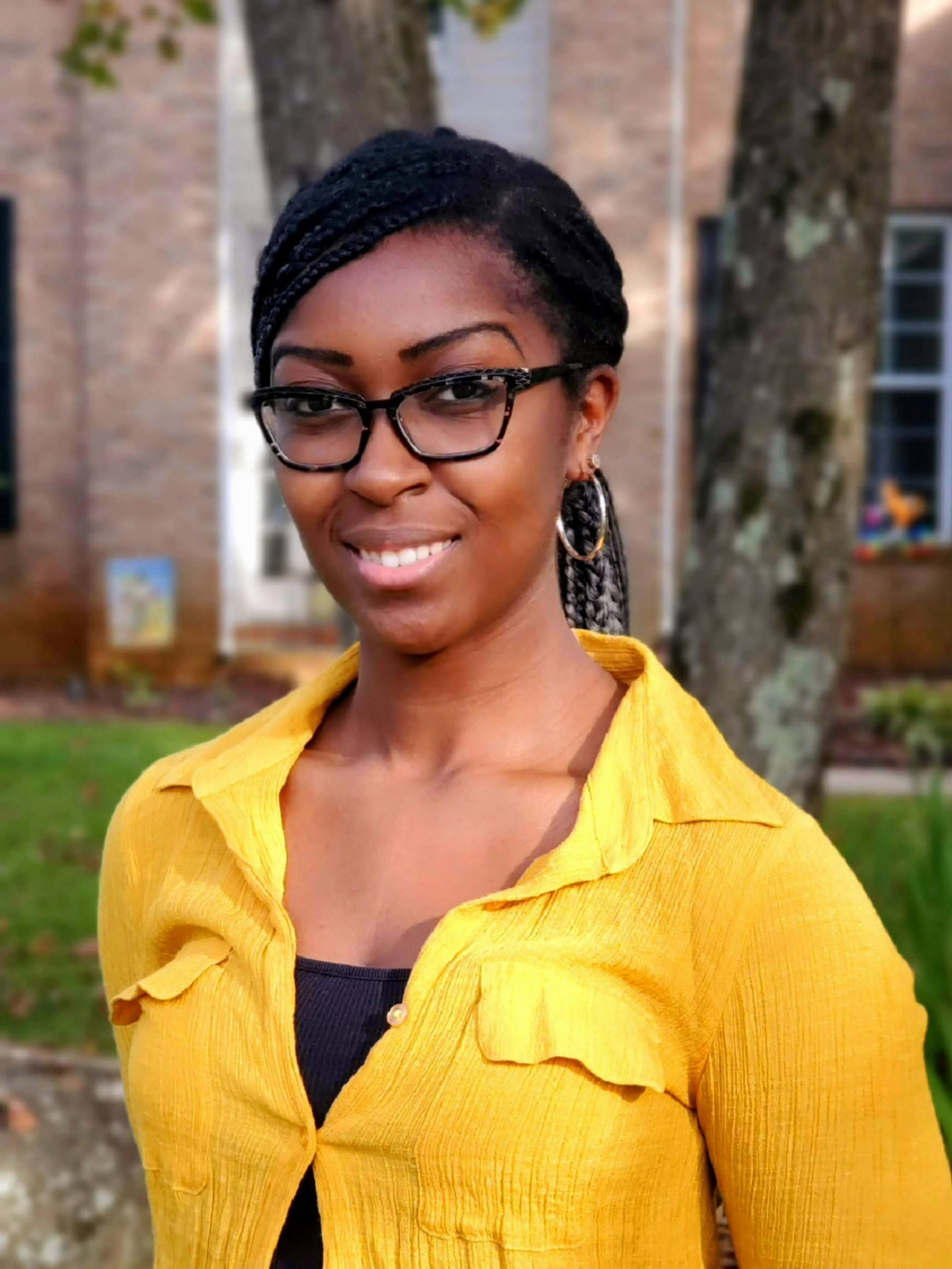
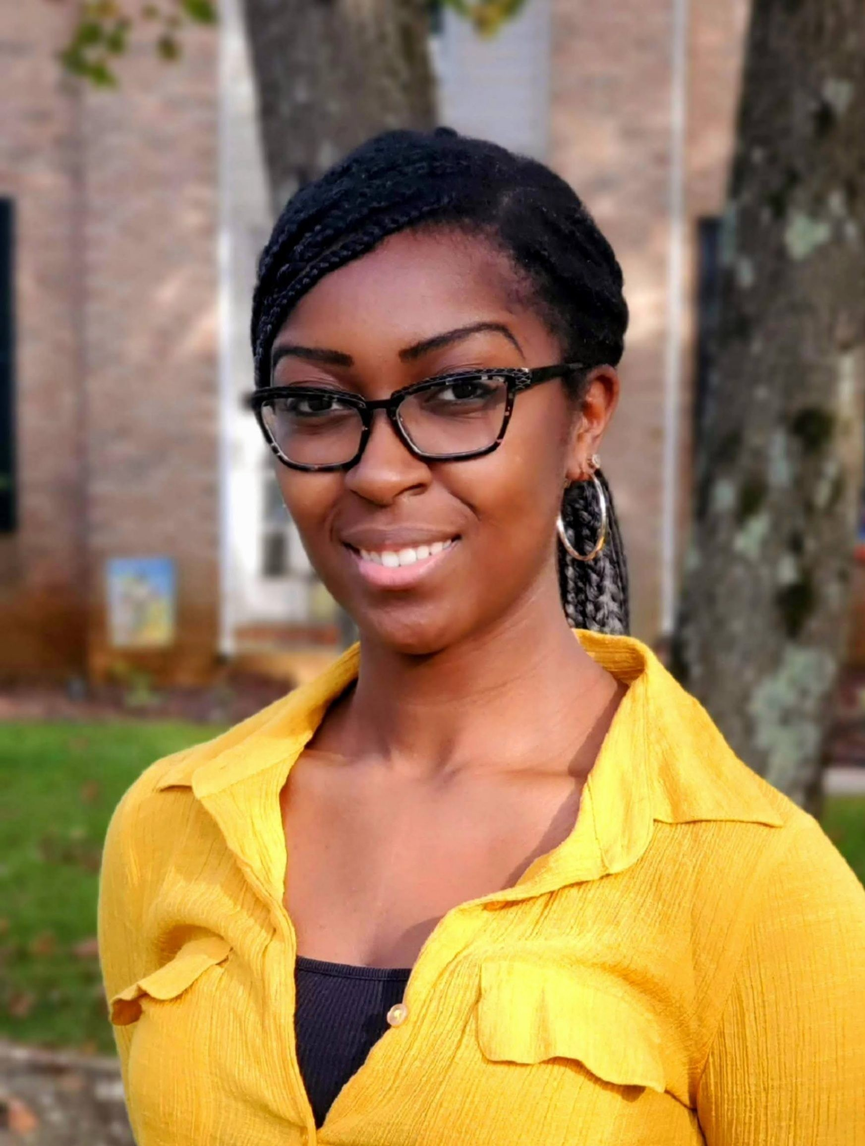
update profile image and hero subtitle

diff --git a/index.html b/index.html
@@ -190,14 +190,13 @@
             width: 250px;
             height: 250px;
             border-radius: 50%;
-            background: linear-gradient(45deg, #0077be, #48cae4);
-            display: flex;
+            object-fit: cover;   /* keeps proportions, crops excess */
+            box-shadow: 0 20px 40px rgba(0,119,190,0.3);
+            display: block;
+            margin: 0 auto;
             align-items: center;
             justify-content: center;
-            font-size: 4rem;
             color: white;
-            margin: 0 auto;
-            box-shadow: 0 20px 40px rgba(0,119,190,0.3);
         }
 
         /* About: sub-section + CV */
@@ -444,7 +443,7 @@
     <section class="hero" id="home">
         <div class="hero-content">
             <h1>Science That Matters for a Changing Planet</h1>
-            <p>Bridging research, policy, and public engagement by translating science to inspire change and inform decisions.</p>
+            <p>Translating science jargon to inspire change and inform decisions.</p>
             <a href="#visualizations" class="cta-button">Explore My Work</a>
         </div>
     </section>
@@ -456,7 +455,7 @@
             <h2 class="section-title fade-in">About Me</h2>
             <div class="about-content">
                 <!-- <div class="profile-image">🌍</div> -->
-                <img src="assets/images/20241215_153613.jpg" alt="Nina Grant" class="profile-image">
+                <img src="assets/images/20201020_182442-1-scaled.jpg" alt="Nina Grant" class="profile-image">
                 <div class="about-text fade-in">
                     <p>
                         I’m a climate scientist-in-training passionate about developing safe, 
